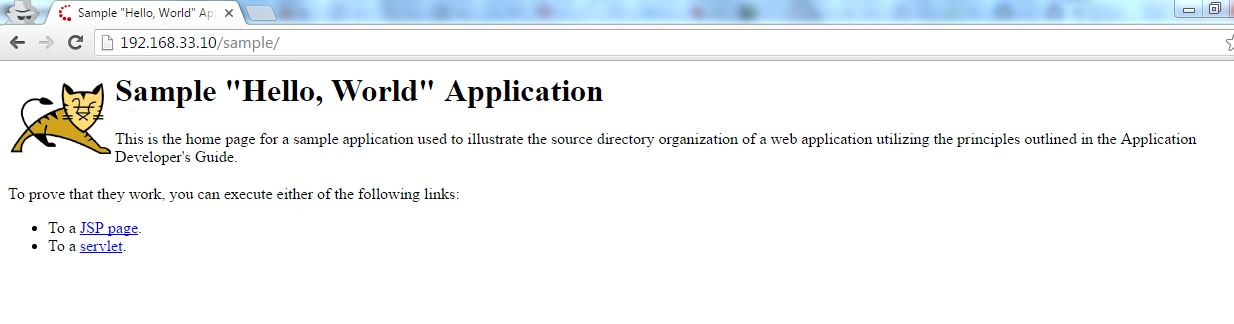
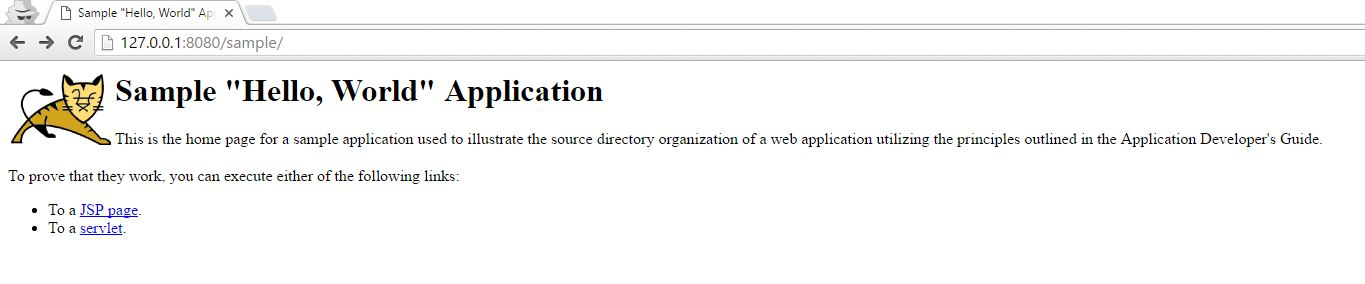
updated README, tomcat.Dockerfile and screenshot from host machine

Changed region(s): [[0.0, 0.0, 1.0, 0.507], [0.0, 0.5634, 0.3695, 0.6479], [0.0, 0.6761, 0.1232, 0.8451]]

diff --git a/README.md b/README.md
@@ -8,7 +8,7 @@ Home Task
 
 Using base docker image ***sbeliakou/centos:6.7***
 
-1. Wiht ```Dockerfiles```:
+1. With ```Dockerfiles```:
     - Create Docker Image of ```nginx``` ([web.Dockerfile](/web.Dockerfile))
     - Create Docker Image of ```Tomcat 7``` ([tomcat.Dockerfile](/tomcat.Dockerfile))
     - Create Docker Image (Data Volume) with [```hello world```](https://tomcat.apache.org/tomcat-7.0-doc/appdev/sample/sample.war) application for Tomcat ([application.Dockerfile](application.Dockerfile))
@@ -25,8 +25,10 @@ Using base docker image ***sbeliakou/centos:6.7***
 Task Report Notes
 ---
 Vagrantfile includes pip and docker-compose installation.
+Container web-content is accesable from host browser by address localhost:8080/sample
 
 docker compose runs through 'docker-compose up -d' command.
+container are started with 'restart always' parameter.
 Only nginx container has exposed 80 port.
 
 <a id="screens"></a>
